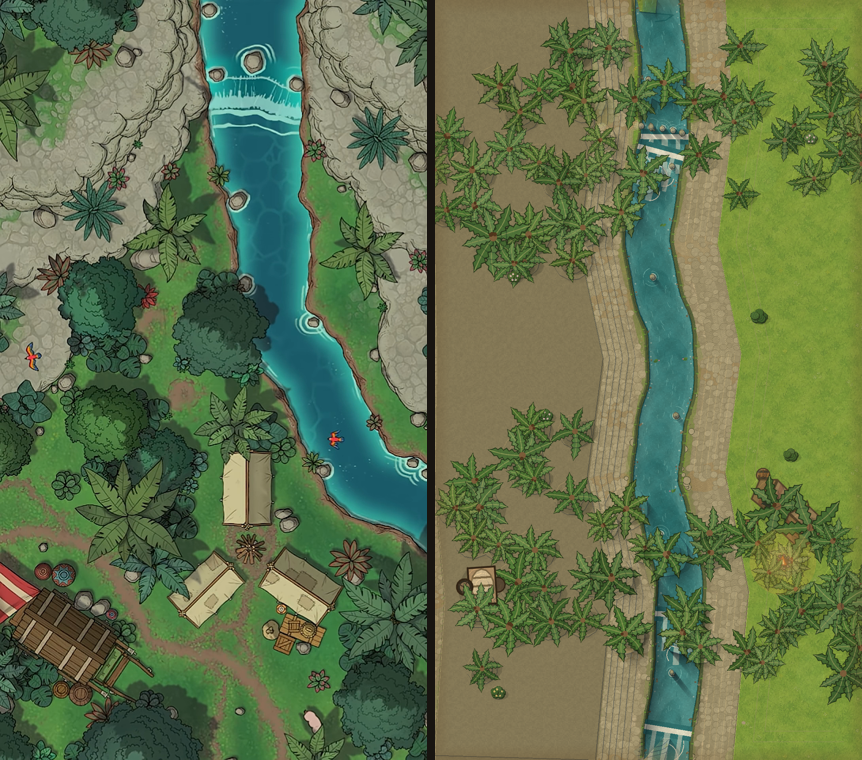
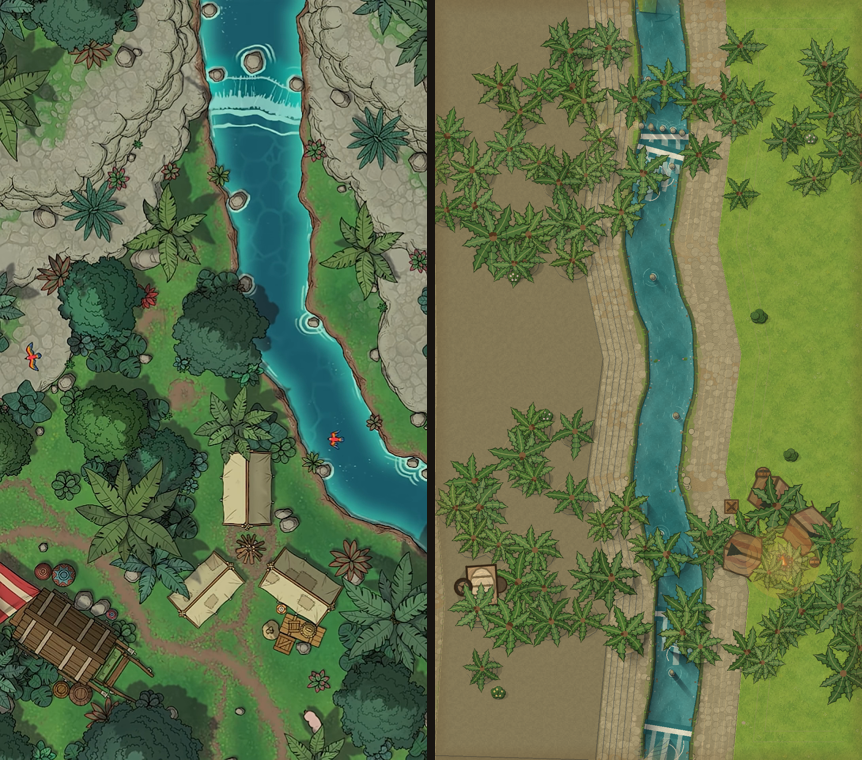
Nimblehold parity iteration 3: ink bridge route, camp dressing, mottle
- ref-10: road now crosses the channel so the plank bridge renders over
  the gorge; crack mesh reads on both banks
- ref-08: larger camp props, extra tent/crates/barrels
- woodland ground.patches x2 for stronger turf mottle
- scores: ref-08 73, ref-10 76

Generated with [Devin](https://devin.ai)

diff --git a/tools/genscene.py b/tools/genscene.py
@@ -561,12 +561,15 @@ def ref08():
                  (160, 1750), (950, 350)]:
         s.prop("bush", x, y, scale=24 * 2.0, model=1)
     # Camp by the east bank.
-    s.prop("tent", 850, 1250, scale=80, rot=0.4)
-    s.prop("tent", 930, 1330, scale=72, rot=-0.8)
-    s.prop("cart", 120, 1480, scale=88, rot=1.5)
-    s.prop("campfire", 880, 1420, scale=56)
-    s.prop("crate", 800, 1330, scale=46)
-    s.prop("barrel", 830, 1200, scale=44)
+    s.prop("tent", 850, 1250, scale=95, rot=0.4)
+    s.prop("tent", 940, 1340, scale=85, rot=-0.8)
+    s.prop("tent", 780, 1400, scale=80, rot=1.9)
+    s.prop("cart", 120, 1480, scale=95, rot=1.5)
+    s.prop("campfire", 880, 1420, scale=62)
+    s.prop("crate", 800, 1330, scale=52)
+    s.prop("crate", 750, 1280, scale=46)
+    s.prop("barrel", 830, 1200, scale=50)
+    s.prop("barrel", 960, 1420, scale=46)
     # River rocks + a rapid line across the channel at the top
     # meander (foam reads off the ripple rings the water pass draws).
     for x, y in [(540, 200), (600, 420), (550, 700), (610, 1050),
@@ -648,9 +651,10 @@ def ref10():
               rough=70)
     s.terrain(blob(250, 1350, 380, 12.4, n=26, squash=0.9, wob=0.12),
               height=20, size=58, rough=55)
-    # Dirt road crossing at the bridge (top-middle).
-    s.road([(540, 200), (400, 300), (280, 480), (300, 700),
-            (420, 900), (560, 1000)], 22)
+    # Road crosses the channel E->W at the gorge narrows — BridgePainter
+    # spans it where the road meets the water.
+    s.road([(240, 360), (400, 340), (560, 370), (700, 400),
+            (820, 520), (860, 800), (800, 1100)], 26)
     # Rocks in water.
     for x, y in [(600, 500), (560, 760), (620, 1040), (590, 1250)]:
         s.prop("rock", x, y, scale=16)

diff --git a/DECISIONS.md b/DECISIONS.md
@@ -55,9 +55,9 @@ věrný port, takže práce šla převážně do (a) chybějících render průc
 | 05  | 78    | interiér věže řidší |
 | 06  | 78    | kamínkové (ne pásové) ohrady |
 | 07  | 77    | vesnice řidší než ref cluster |
-| 08  | 72    | džungle řidší, stěny plošší |
+| 08  | 73    | džungle řidší, stěny plošší |
 | 09  | 74    | nábytek řidší, křižák menší |
-| 10  | 74    | crack jemnější, most menší |
+| 10  | 76    | crack jemnější, most menší |
 
 Práh ≥90 % u 9/10 naplněn není — renderer je věrný port web verze
 a zbývající rozdíly jsou převážně výtvarné (hustota porostu, síla
